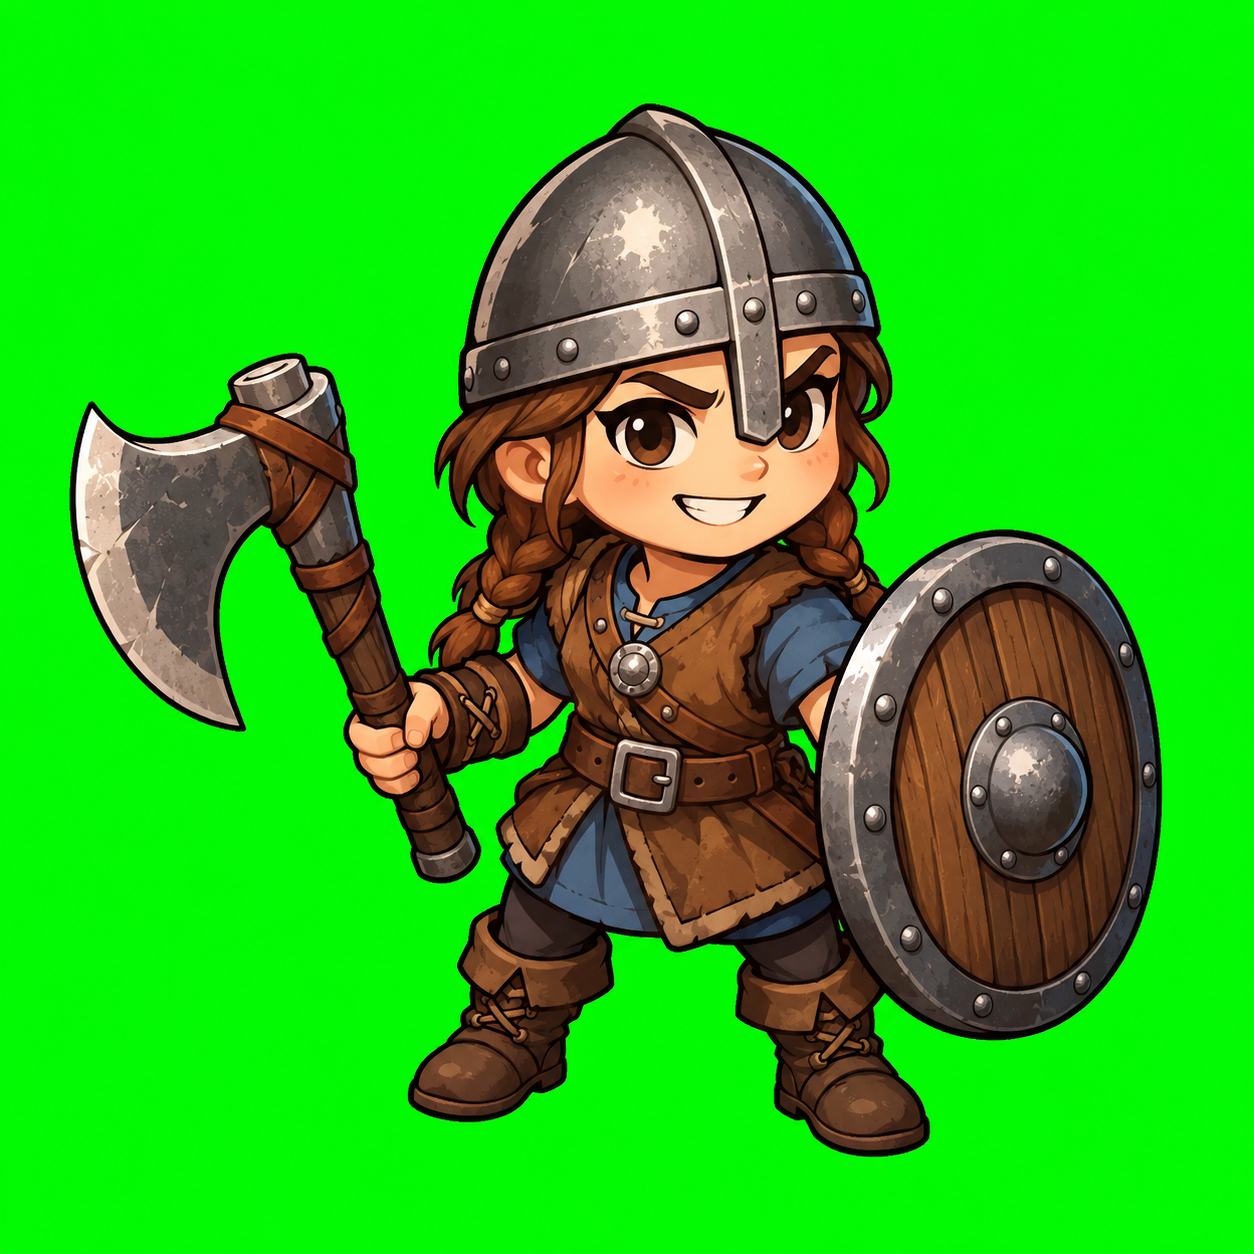
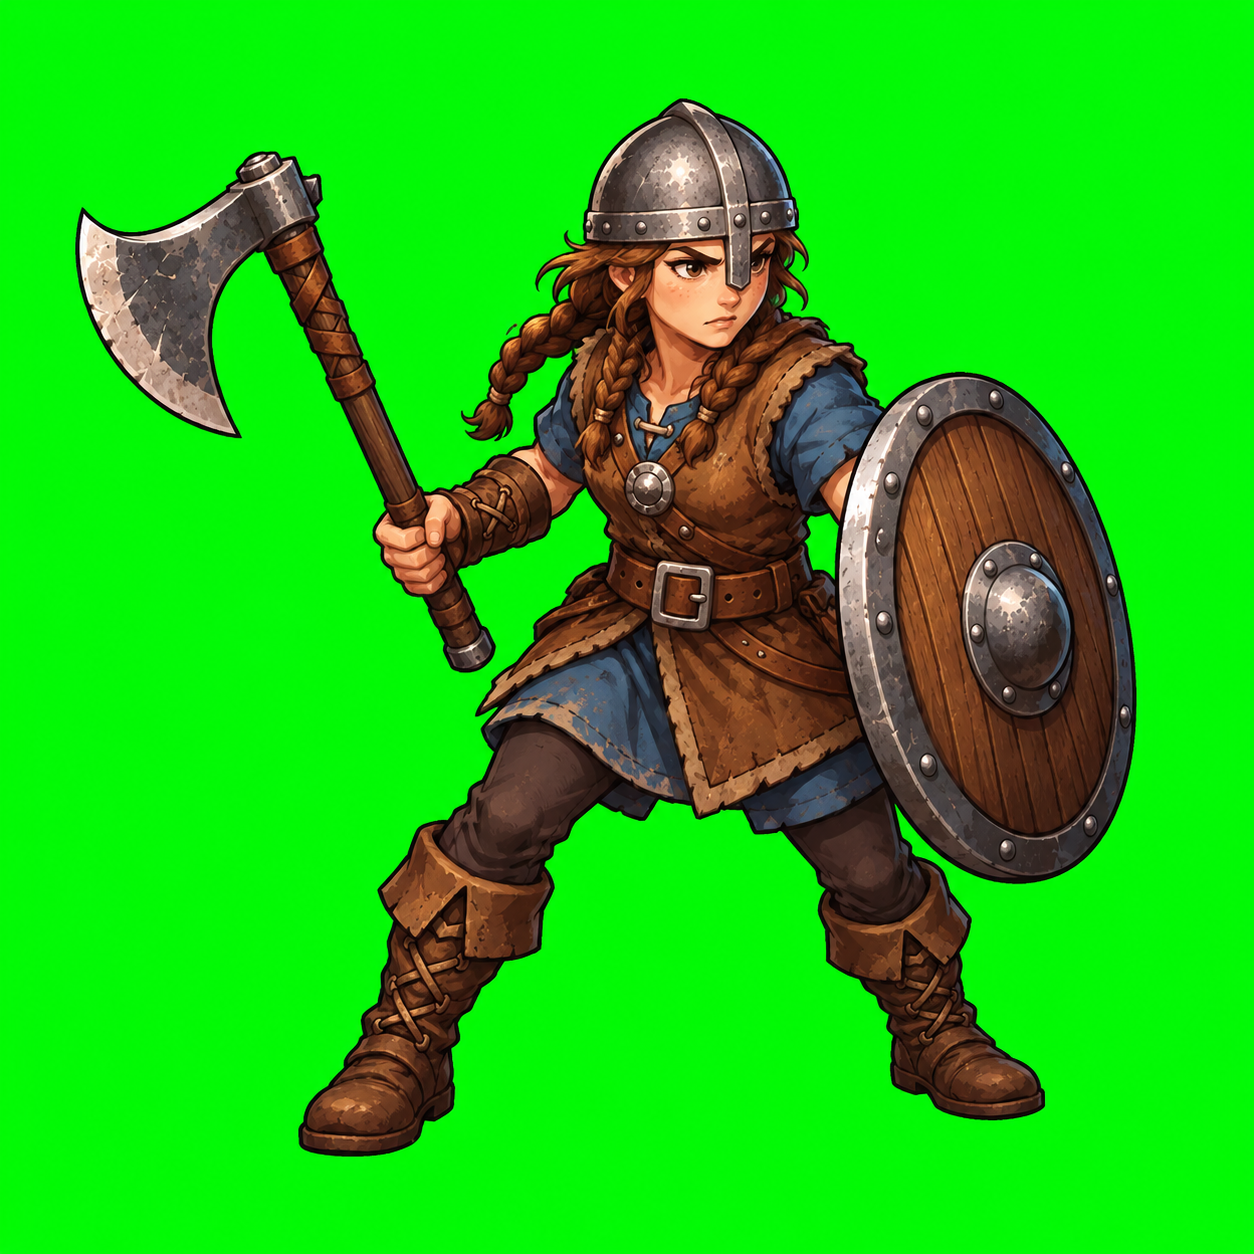
docs(art): house style c (classic fantasy strategy); animation test batch S2
STYLE.md rewritten for Stefan's pick (S1-c): ~4.5 heads, weathered, painted,
one bold class colour per class, real weapon grips. The S1-c warrior replaces
the reference image. S2: walk (4), attack (3) and hurt frames as edits of the
reference so they stack. S1 Done, B1 Void.

Claude-Session: https://claude.ai/code/session_01M68g8NmB4aDf4xUYCS1Xop

diff --git a/art-tasks/NEXT.md b/art-tasks/NEXT.md
@@ -3,14 +3,15 @@
 Take the first **Ready** batch of **your track** that is not in the upload log; never a
 **Draft** (Art is still waiting on Stefan). Art sets a batch to Done when its images are shipped.
 
-| Batch | Track     | File    | What                                                      | Images | Status |
-| ----- | --------- | ------- | --------------------------------------------------------- | ------ | ------ |
-| S1    | heroes    | `S1.md` | Art direction: one warrior in five styles (priority)      | 5      | Ready  |
-| R1    | heroes    | `R1.md` | Rig test: warrior body and arm, front and side (priority) | 5      | Done   |
-| B1    | heroes    | `B1.md` | Style test: warrior front and back, draugr, town hall     | 4      | Ready  |
-| B2    | heroes    | `B2.md` | Ranger and wizard t1, front and back                      | 4      | Draft  |
-| B3    | heroes    | `B3.md` | Paladin and rogue t1, front and back                      | 4      | Draft  |
-| B4    | monsters  | `B4.md` | Draugr back, troll, harpy t1                              | 5      | Draft  |
-| B5    | monsters  | `B5.md` | Minotaur, jackal-man, wyrm t1                             | 6      | Draft  |
-| B6    | buildings | `B6.md` | Temples t1: Aesir, Greek, Egyptian                        | 3      | Draft  |
-| B7    | buildings | `B7.md` | Market, smithy, shrine, tower t1                          | 4      | Draft  |
+| Batch | Track     | File    | What                                                         | Images | Status |
+| ----- | --------- | ------- | ------------------------------------------------------------ | ------ | ------ |
+| S2    | heroes    | `S2.md` | Animation test: warrior walk, attack, hurt frames (priority) | 8      | Ready  |
+| S1    | heroes    | `S1.md` | Art direction: one warrior in five styles (priority)         | 5      | Done   |
+| R1    | heroes    | `R1.md` | Rig test: warrior body and arm, front and side (priority)    | 5      | Done   |
+| B1    | heroes    | `B1.md` | Style test: warrior front and back, draugr, town hall        | 4      | Void   |
+| B2    | heroes    | `B2.md` | Ranger and wizard t1, front and back                         | 4      | Draft  |
+| B3    | heroes    | `B3.md` | Paladin and rogue t1, front and back                         | 4      | Draft  |
+| B4    | monsters  | `B4.md` | Draugr back, troll, harpy t1                                 | 5      | Draft  |
+| B5    | monsters  | `B5.md` | Minotaur, jackal-man, wyrm t1                                | 6      | Draft  |
+| B6    | buildings | `B6.md` | Temples t1: Aesir, Greek, Egyptian                           | 3      | Draft  |
+| B7    | buildings | `B7.md` | Market, smithy, shrine, tower t1                             | 4      | Draft  |

diff --git a/art-tasks/STYLE.md b/art-tasks/STYLE.md
@@ -1,17 +1,26 @@
 # Godblooded house style (every image, every chat)
 
 Apply to every image on top of the batch text, so all chats make art that fits together.
+Stefan's pick: classic fantasy strategy (batch S1, style c). **Reference image:**
+`art-tasks/ref/hero_warrior_t1_front.png` (fetch it raw and match its look).
 
-- **Look:** chibi fantasy. Big heads (about 2.5 heads tall), short sturdy bodies, oversized
-  weapons and helmets. Cute but brave, never babyish. Bold, readable silhouettes.
+- **Look:** classic fantasy strategy, like the units of the old PC game Majesty. Realistic but
+  compact proportions, **about 4.5 heads tall**. Weathered, slightly grim, grounded: worn gear,
+  dirt, scratches, serious faces. **Not chibi, not cute, no big heads.**
 - **World:** an alternate medieval world where the old gods never left. Norse (Aesir), Greek
   and Egyptian flavours mix. Mythic monsters.
-- **Lines:** clean dark-brown outline, medium weight, even all around.
-- **Shading:** cel shading, two tones plus one soft highlight, light from the top left. No cast
-  shadows, no drop shadows, no glow outside the object.
-- **Palette:** warm and saturated. Pantheon accents: Aesir frost blue and silver, Greek white,
-  laurel gold and bronze, Egyptian lapis blue and gold. Monsters lean darker and greener.
-- **Detail:** readable at 64 px tall on a phone. Few big shapes, no texture noise, no tiny text.
+- **Lines:** thin dark-brown outline around the figure, lighter inside. No thick cartoon lines.
+- **Shading:** painted, soft form shading with a clear light side and shadow side, light from
+  the top left. No cast shadows, no drop shadows, no glow outside the object.
+- **Palette:** muted, earthy base (leather browns, iron greys, worn cloth). **Each hero class has
+  one bold class colour** on a big area (cloak, tabard, hood or sash) so it reads at a glance.
+  Pantheon accents: Aesir frost blue and silver, Greek white, laurel gold and bronze, Egyptian
+  lapis blue and gold. Monsters lean darker and greener.
+- **Phone readability:** the game shows units about 60-80 px tall. A strong, clear silhouette and
+  the class colour carry the read; the face may be small. Weapons and shields big enough to see.
+  No texture noise that turns to mud when small.
+- **Weapons:** held the way a real fighter holds them (axe and hammer gripped at the lower end of
+  the handle, head forward; sword by the hilt; bow by the middle).
 - **Camera:** the same 3/4 top-down game camera for every unit and building.
 - No text, no logos, no watermark, no frame, no background scenery: only the object on the flat
   key colour.

diff --git a/art-tasks/S2.md b/art-tasks/S2.md
@@ -1,0 +1,40 @@
+# S2: animation test, warrior frames (8 images)
+
+Track: heroes. **Priority: make this before anything else.** The game animates units by showing
+frames in a row, so every frame must stack exactly on the others.
+
+**How to keep the frames aligned:** make every frame by **editing the reference image**
+`art-tasks/ref/hero_warrior_t1_front.png` (fetch it raw). Keep the canvas size, the figure's
+scale, colours, face and gear exactly as in the reference, and keep the **feet on the same
+ground line and the body centred on the same spot**. Change only the pose the item asks for.
+Same 3/4 front view (turned toward the lower right) in every frame. Flat green #00FF00
+background, nothing else in the picture. Style: `STYLE.md`.
+
+Walk cycle, 4 frames (the legs and arms really move; the axe stays in the ready grip, hand at
+the lower end of the handle, head up; the shield stays on the left arm):
+
+1. `hero_warrior_t1_front_walk1`: **contact**: right foot forward with the heel touching down,
+   left foot back on its toes, legs wide apart, body at normal height.
+2. `hero_warrior_t1_front_walk2`: **down**: right foot flat and carrying the weight, knee bent,
+   left foot lifting off behind; body at its lowest.
+3. `hero_warrior_t1_front_walk3`: **passing**: right leg straight under the body, left leg
+   swinging past it with the knee raised; body at normal height.
+4. `hero_warrior_t1_front_walk4`: **up**: pushing off the right toes, left foot reaching forward;
+   body at its highest.
+
+Attack, 3 frames (one overhead chop):
+
+5. `hero_warrior_t1_front_attack1`: **windup**: axe raised high back over the right shoulder,
+   both arms up, body leaning back, shield arm out for balance.
+6. `hero_warrior_t1_front_attack2`: **strike**: axe swung down in front of the body, the head at
+   about knee height in front, body leaning forward, front knee bent.
+7. `hero_warrior_t1_front_attack3`: **follow-through**: axe carried past and low to the left side,
+   body twisted, starting to recover.
+
+Hurt, 1 frame:
+
+8. `hero_warrior_t1_front_hurt`: **recoil**: knocked back a step, head and shoulders thrown back,
+   shield raised, face wincing; feet still on the ground line.
+
+Deliver as usual (`S2--<id>.png`). In your report, say if any frame came out shifted or rescaled
+against the reference.

diff --git a/docs/asset-spec.md b/docs/asset-spec.md
@@ -1,6 +1,8 @@
 # Asset spec
 
-Art owns this file. The house style is `art-tasks/STYLE.md`; this is the technical contract.
+Art owns this file. The house style is `art-tasks/STYLE.md` (classic fantasy strategy, about
+4.5 heads tall, reference `art-tasks/ref/hero_warrior_t1_front.png`); this is the technical
+contract.
 
 ## Ids
 
